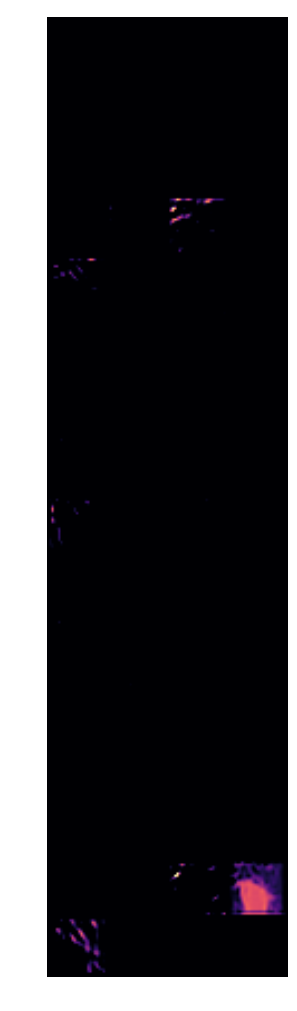
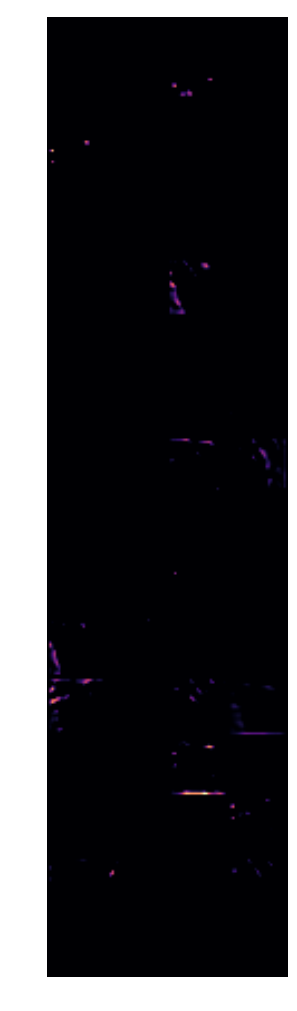
updated filter size to 5x5

diff --git a/src/models/cnn_model.py b/src/models/cnn_model.py
@@ -134,13 +134,13 @@ class CNNModel(object):
 
 		"""
 		inp_layer = self.input_layer(X_images, name = 'inpu1')
-		conv_layer_1 = self.convolution_layer(32, 3, 'conv1', 'relu', 'L2') # 50 filters, with size 3
+		conv_layer_1 = self.convolution_layer(32, 5, 'conv1', 'relu', 'L2') # 50 filters, with size 3
 		mp_layer_1 = self.max_pooling_layer(2, 'mp1') # downsamples spatial size by 2
-		conv_layer_2 = self.convolution_layer(64, 3, 'conv2', 'relu', 'L2')
+		conv_layer_2 = self.convolution_layer(64, 5, 'conv2', 'relu', 'L2')
 		conv_layer_3 = self.convolution_layer(64, 3, 'conv3', 'relu', 'L2')
 		mp_layer_2 = self.max_pooling_layer(2, 'mp2')
 		fully_connected_layer_1 = self.fully_connected_layer(512,'relu', 'fl1')
-		dropout_layer_1 = self.dropout_layer('dp1', 0.6)
+		dropout_layer_1 = self.dropout_layer('dp1', 0.5)
 		softmax_layer  = self.fully_connected_layer(2, 'softmax', 'fl2')
 
 		self.network = regression(self.network, optimizer = 'adam',\
